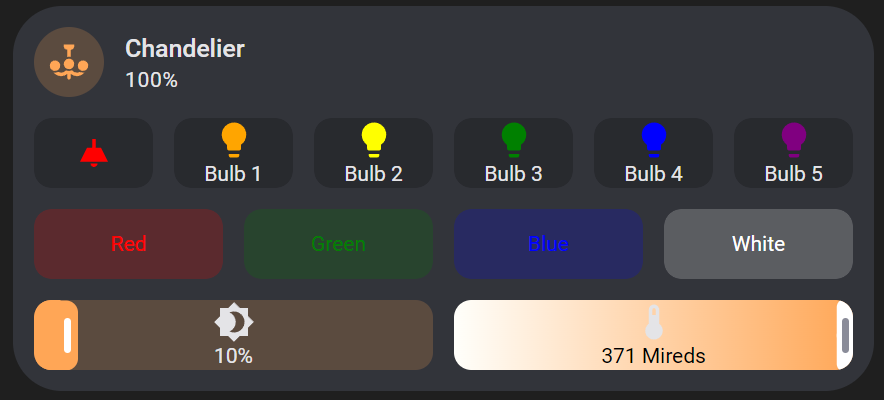
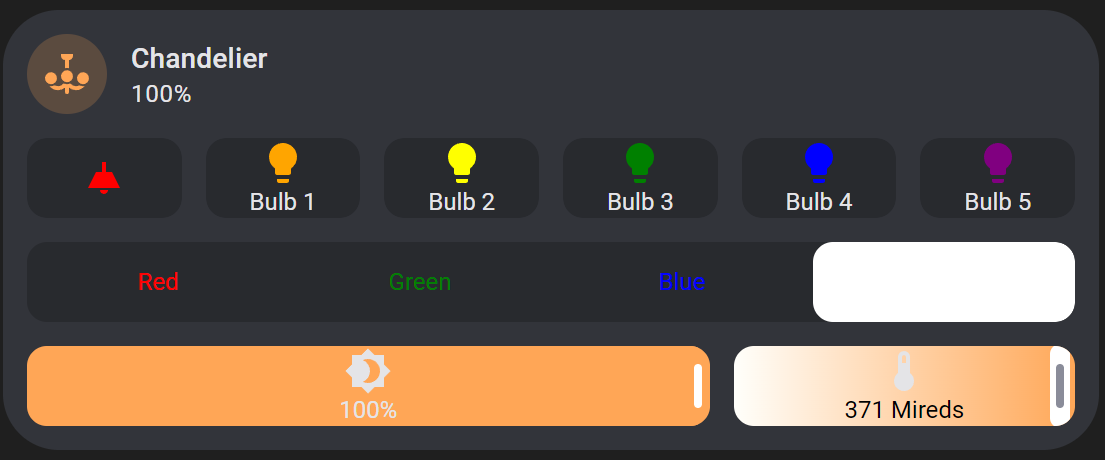
WIP README updates, add flex-basis logic to selector buttons

diff --git a/dist/service-call-tile-feature.js b/dist/service-call-tile-feature.js
@@ -84,7 +84,7 @@
 						var(--disabled-color)
 					);
 				}
-			`]}};e.ServiceCallButton=a,e.ServiceCallButton=a=s([(0,n.customElement)("service-call-button")],a)},369:function(t,e,i){var s=this&&this.__decorate||function(t,e,i,s){var r,n=arguments.length,o=n<3?e:null===s?s=Object.getOwnPropertyDescriptor(e,i):s;if("object"==typeof Reflect&&"function"==typeof Reflect.decorate)o=Reflect.decorate(t,e,i,s);else for(var l=t.length-1;l>=0;l--)(r=t[l])&&(o=(n<3?r(o):n>3?r(e,i,o):r(e,i))||o);return n>3&&o&&Object.defineProperty(e,i,o),o};Object.defineProperty(e,"__esModule",{value:!0}),e.ServiceCallSelector=void 0;const r=i(677),n=i(595),o=i(921),l=i(393);i(827);let a=class extends l.BaseServiceCallFeature{onClick(t){const e=t.currentTarget.parentElement.children;for(const t of e)"service-call-button"==t.tagName.toLowerCase()&&(t.style.backgroundColor="",t.style.opacity="");t.currentTarget.style.backgroundColor="var(--selection-color)",t.currentTarget.style.opacity="var(--selection-opacity)"}render(){var t,e,i;super.render();const s=null!==(t=this.entry.options)&&void 0!==t?t:[];let n=null!==(e=this.hass.states[this.entry.entity_id].attributes.options)&&void 0!==e?e:new Array(s.length);n.length<s.length&&(n=Object.assign(new Array(s.length),n));const l=[r.html`<div class="selector-background"></div>`];for(const t in s){const e=this.entry.options[t];"service"in e||(e.service="input_select.select_option","option"in e.data||(e.data.option=n[t])),"opacity"in e||(e.opacity=0);const s={},a=null!==(i=e.option)&&void 0!==i?i:n[t];this.value==a&&null!=this.value?(s.backgroundColor="var(--selection-color)",s.opacity="var(--selection-opacity)"):(s.backgroundColor="",s.opacity=""),"color"in e&&(s["--selection-color"]=e.color),l.push(r.html`<service-call-button
+			`]}};e.ServiceCallButton=a,e.ServiceCallButton=a=s([(0,n.customElement)("service-call-button")],a)},369:function(t,e,i){var s=this&&this.__decorate||function(t,e,i,s){var r,n=arguments.length,o=n<3?e:null===s?s=Object.getOwnPropertyDescriptor(e,i):s;if("object"==typeof Reflect&&"function"==typeof Reflect.decorate)o=Reflect.decorate(t,e,i,s);else for(var l=t.length-1;l>=0;l--)(r=t[l])&&(o=(n<3?r(o):n>3?r(e,i,o):r(e,i))||o);return n>3&&o&&Object.defineProperty(e,i,o),o};Object.defineProperty(e,"__esModule",{value:!0}),e.ServiceCallSelector=void 0;const r=i(677),n=i(595),o=i(921),l=i(393);i(827);let a=class extends l.BaseServiceCallFeature{onClick(t){const e=t.currentTarget.parentElement.children;for(const t of e)"service-call-button"==t.tagName.toLowerCase()&&(t.style.backgroundColor="",t.style.opacity="");t.currentTarget.style.backgroundColor="var(--selection-color)",t.currentTarget.style.opacity="var(--selection-opacity)"}render(){var t,e,i;super.render();const s=null!==(t=this.entry.options)&&void 0!==t?t:[];let n=null!==(e=this.hass.states[this.entry.entity_id].attributes.options)&&void 0!==e?e:new Array(s.length);n.length<s.length&&(n=Object.assign(new Array(s.length),n));const l=[r.html`<div class="selector-background"></div>`];for(const t in s){const e=this.entry.options[t];"service"in e||(e.service="input_select.select_option","option"in e.data||(e.data.option=n[t])),"opacity"in e||(e.opacity=0);const s={},a=null!==(i=e.option)&&void 0!==i?i:n[t];this.value==a&&null!=this.value?(s.backgroundColor="var(--selection-color)",s.opacity="var(--selection-opacity)"):(s.backgroundColor="",s.opacity=""),"color"in e&&(s["--selection-color"]=e.color),"flex_basis"in e&&(s["flex-basis"]=e.flex_basis),l.push(r.html`<service-call-button
 					.hass=${this.hass}
 					.entry=${e}
 					@click=${this.onClick}

diff --git a/src/classes/service-call-selector.ts b/src/classes/service-call-selector.ts
@@ -59,6 +59,9 @@ export class ServiceCallSelector extends BaseServiceCallFeature {
 			if ('color' in entry) {
 				style['--selection-color'] = entry.color;
 			}
+			if ('flex_basis' in entry) {
+				style['flex-basis'] = entry.flex_basis;
+			}
 
 			selector.push(
 				html`<service-call-button

diff --git a/README.md b/README.md
@@ -13,7 +13,7 @@
 
 <a href="https://www.buymeacoffee.com/nerwyn" target="_blank"><img src="https://cdn.buymeacoffee.com/buttons/v2/default-blue.png" alt="Buy Me A Coffee" style="height: 60px !important;width: 217px !important;" ></a>
 
-Call any service via tile features. This custom tile feature will let you create super customizable tile buttons and sliders. [The Home Assistant developers gave us the ability to create custom tile features](https://developers.home-assistant.io/docs/frontend/custom-ui/custom-card/#tile-features), why is no one else taking advantage of it? And why isn't something like a generic service call tile button already in Home Assistant? I don't know but here it is.
+Call any service via tile features. This custom tile feature will let you create super customizable tile buttons, sliders, and selectors. [The Home Assistant developers gave us the ability to create custom tile features](https://developers.home-assistant.io/docs/frontend/custom-ui/custom-card/#tile-features), why is no one else taking advantage of it? And why isn't something like a generic service call tile button already in Home Assistant? I don't know but here it is.
 
 <img src="https://raw.githubusercontent.com/Nerwyn/service-call-tile-feature/main/assets/example_tile.png" alt="example_tile" width="600"/>
 
@@ -53,9 +53,9 @@ The custom service call feature is actually a row of entries, each of which have
 | autofill_entity_id | boolean               | Whether to autofill the `entity_id` of the tile feature and the service call data/target if no entity, device, or area ID is provided. Defaults to true. |
 | confirmation       | boolean, Confirmation | Opens a browser popup asking you to confirm your action.                                                                                                 |
 
-By default type will be `button`. If you're using an older version of this feature it may not be present but will still default to `button`. Currently `slider` is also supported.
+By default type will be `button`. If you're using an older version of this feature it may not be present but will still default to `button`. Currently `slider` and `selector` are also supported.
 
-As of now `value_attribute` is only important for sliders, as it uses this field to determine the slider's default value on render. It can also be used for `VALUE` string interpolation as described below.
+The `value_attribute` field is to set which entity attribute the feature should use for it's value, if not the default entity state. For sliders this field is used to determine the it's default value on render. For selectors this field is used for determining which option is currently selected. It can also be used for `VALUE` string interpolation as described below.
 
 If you find that the autofilling of the entity ID in the service call or tile feature value is causing issues, setting `autofill_entity_id` to `false` may help. Just remember to set the entity ID of the tile feature and the entity, device, or area ID of the service call target.
 
@@ -137,16 +137,19 @@ To better understand service calls, use the services Developer Tool found in Hom
 
 ### Global Style Options
 
-| Name        | Type   | Description                                                                             |
-| ----------- | ------ | --------------------------------------------------------------------------------------- |
-| color       | string | Custom color for the tile feature. Can also see a CSS function (see examples).          |
-| opacity     | float  | Opacity of the tile feature background. Defaults to 0.2. Cannot be string interpolated. |
-| icon        | string | Icon to use.                                                                            |
-| icon_color  | string | Custom color for the icon.                                                              |
-| label       | string | String label to place underneath the icon, or by itself.                                |
-| label_color | string | Custom color for the string label.                                                      |
+| Name        | Type   | Description                                                                                         |
+| ----------- | ------ | --------------------------------------------------------------------------------------------------- |
+| color       | string | Custom color for the tile feature. Can also see a CSS function (see examples).                      |
+| opacity     | float  | Opacity of the tile feature background. Defaults to 0.2. Cannot be string interpolated.             |
+| icon        | string | Icon to use.                                                                                        |
+| icon_color  | string | Custom color for the icon.                                                                          |
+| label       | string | String label to place underneath the icon, or by itself.                                            |
+| label_color | string | Custom color for the string label.                                                                  |
+| flex_basis  | string | Percentage of the row the the feature should populate relative to it's default. Defaults to `100%`. |
 
 String interpolation can be used for any of these values except for opacity.
+
+`flex_basis` is a CSS property used to determine how much an element in a flex box takes up relative to others. It can be used to make entries in a tile feature row larger or smaller than it's sibling elements.
 
 ### Slider Specific Options
 
@@ -157,6 +160,13 @@ String interpolation can be used for any of these values except for opacity.
 | thumb              | string | The slider thumb style.<br />- `default`: Like a tile light brightness slider.<br />- `line`: Like a tile temperature slider.<br />- `flat`: Like a mushroom slider. |
 | background_color   | string | Custom color for the background of the slider. Can also be a CSS function (see examples).                                                                            |
 | background_opacity | number | Opacity of the slider background (behind the thumb). Defaults to 0.2. Cannot be string interpolated.                                                                 |
+
+### Selector Specific Options
+
+| Name    | Type     | Description                                                                                                                             |
+| ------- | -------- | --------------------------------------------------------------------------------------------------------------------------------------- |
+| options | Option[] | An array of entries to use as options for the selector, each one being like it's own button feature                                     |
+| option  | string   | A value to used to compare against the features value (see `value_attribute` above) to determine if it is the currently selected option |
 
 # Examples
 
